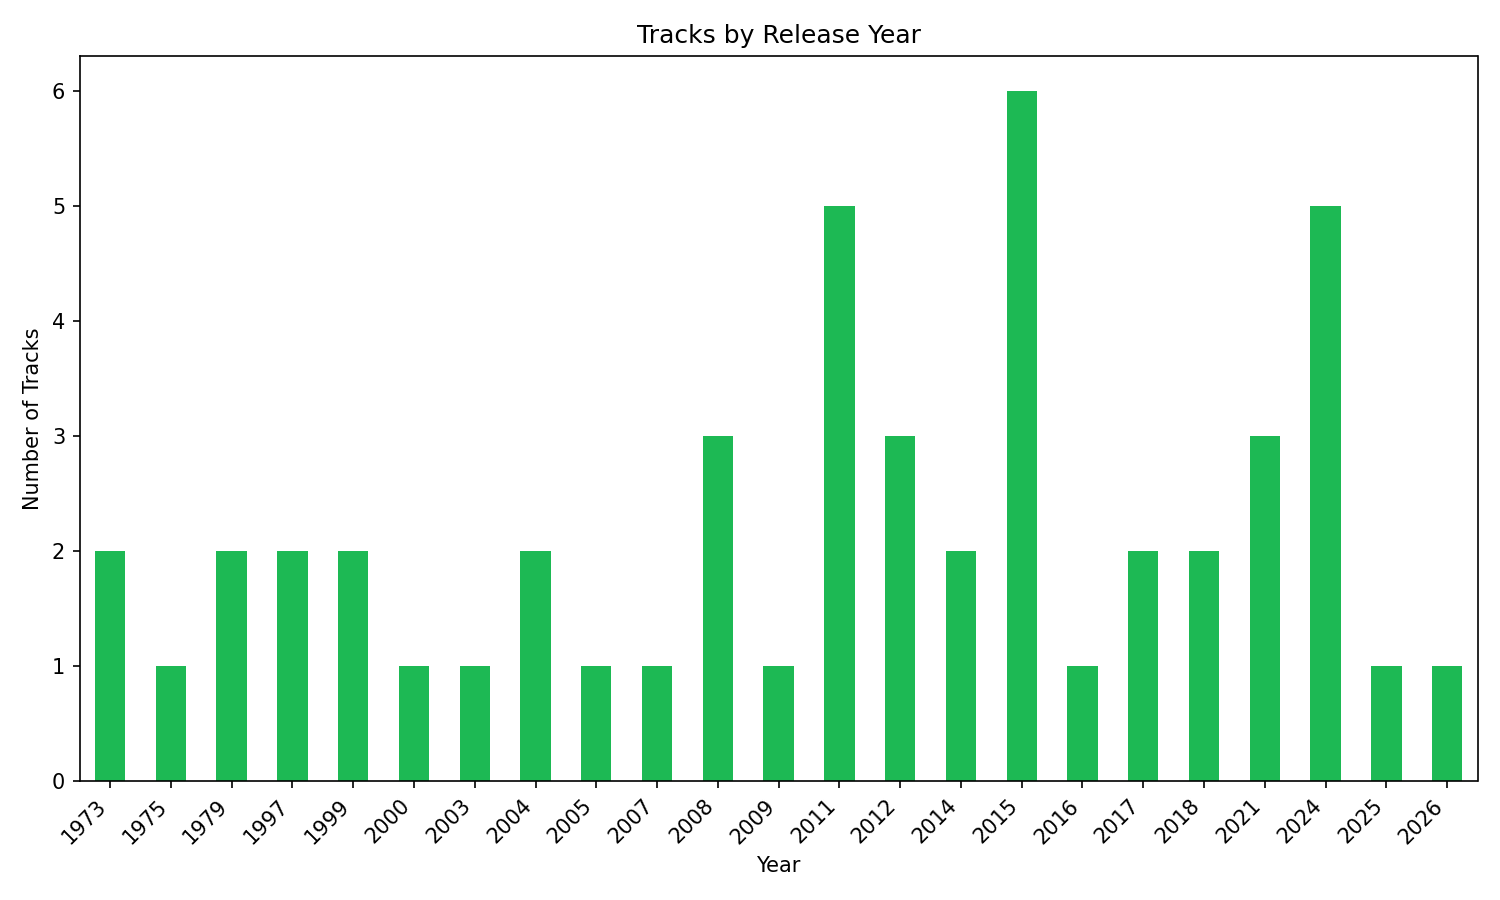
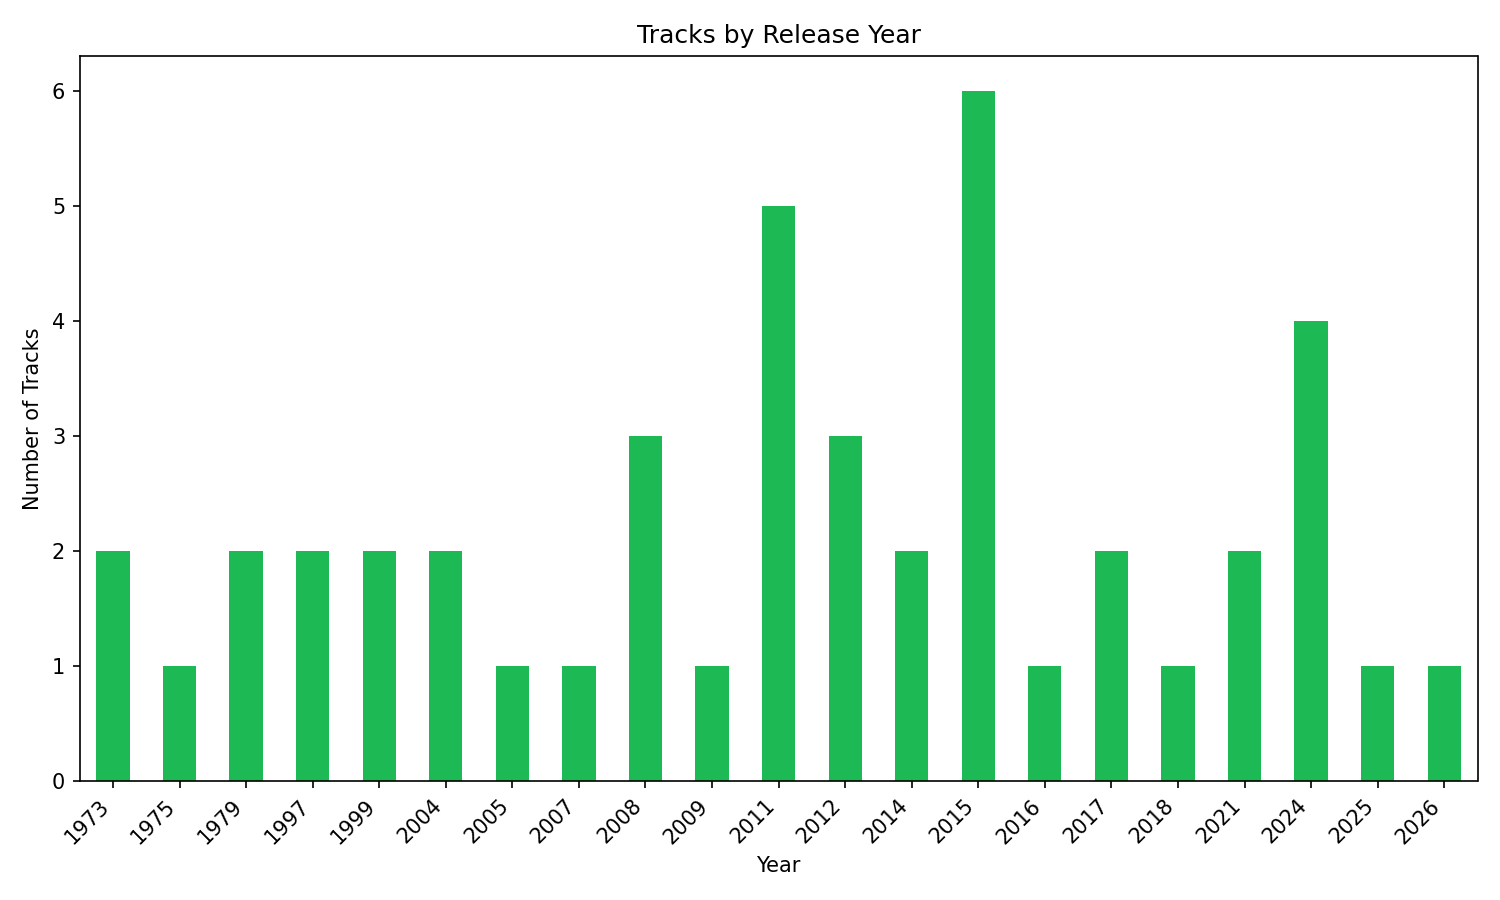
Fix charts, remove unreliable popularity data, add explicit ratio chart

Changed region(s): [[0.0307, 0.0933, 0.9813, 0.9333]]

diff --git a/src/analyze.py b/src/analyze.py
@@ -16,38 +16,36 @@ def analyze():
     """Generate analysis and visualizations from processed data."""
     df = pd.read_csv(CSV_PATH)
 
-    # --- Chart 1: Top 10 most popular tracks ---
-    top_tracks = df.nlargest(10, "popularity")[["track_name", "artist_name", "popularity"]]
-    top_tracks["label"] = top_tracks["track_name"] + " — " + top_tracks["artist_name"]
+    # --- Chart 1: Number of tracks per artist ---
+    tracks_per_artist = df["artist_name"].value_counts().sort_values()
 
     fig, ax = plt.subplots(figsize=(10, 6))
-    ax.barh(top_tracks["label"], top_tracks["popularity"], color="#1DB954")
-    ax.set_xlabel("Popularity")
-    ax.set_title("Top 10 Most Popular Tracks")
-    ax.invert_yaxis()
+    ax.barh(tracks_per_artist.index, tracks_per_artist.values, color="#1DB954")
+    ax.set_xlabel("Number of Tracks")
+    ax.set_title("Tracks Collected per Artist")
     plt.tight_layout()
-    fig.savefig(os.path.join(PROCESSED_DIR, "top_tracks.png"), dpi=150)
+    fig.savefig(os.path.join(PROCESSED_DIR, "tracks_per_artist.png"), dpi=150)
     plt.close()
-    print("Saved: top_tracks.png")
+    print("Saved: tracks_per_artist.png")
 
-    # --- Chart 2: Average popularity by artist ---
-    pop_by_artist = (
-        df.groupby("artist_name")["popularity"]
+    # --- Chart 2: Average track duration by artist ---
+    avg_duration = (
+        df.groupby("artist_name")["duration_sec"]
         .mean()
         .sort_values(ascending=False)
     )
 
     fig, ax = plt.subplots(figsize=(10, 6))
-    pop_by_artist.plot(kind="bar", ax=ax, color="#1DB954")
-    ax.set_ylabel("Average Popularity")
-    ax.set_title("Average Track Popularity by Artist")
+    ax.bar(avg_duration.index, avg_duration.values / 60, color="#1DB954")
+    ax.set_ylabel("Average Duration (minutes)")
+    ax.set_title("Average Track Duration by Artist")
     ax.set_xticklabels(ax.get_xticklabels(), rotation=45, ha="right")
     plt.tight_layout()
-    fig.savefig(os.path.join(PROCESSED_DIR, "popularity_by_artist.png"), dpi=150)
+    fig.savefig(os.path.join(PROCESSED_DIR, "duration_by_artist.png"), dpi=150)
     plt.close()
-    print("Saved: popularity_by_artist.png")
+    print("Saved: duration_by_artist.png")
 
-    # --- Chart 3: Tracks per year ---
+    # --- Chart 3: Tracks by release year ---
     tracks_per_year = df["release_year"].dropna().astype(int).value_counts().sort_index()
 
     fig, ax = plt.subplots(figsize=(10, 6))
@@ -61,11 +59,25 @@ def analyze():
     plt.close()
     print("Saved: tracks_per_year.png")
 
+    # --- Chart 4: Explicit vs Clean tracks ---
+    explicit_counts = df["explicit"].value_counts()
+    labels = ["Clean", "Explicit"]
+    values = [explicit_counts.get(False, 0), explicit_counts.get(True, 0)]
+
+    fig, ax = plt.subplots(figsize=(6, 6))
+    ax.pie(values, labels=labels, autopct="%1.0f%%", colors=["#1DB954", "#b91d47"])
+    ax.set_title("Explicit vs Clean Tracks")
+    plt.tight_layout()
+    fig.savefig(os.path.join(PROCESSED_DIR, "explicit_ratio.png"), dpi=150)
+    plt.close()
+    print("Saved: explicit_ratio.png")
+
     # --- Summary ---
     print("\n--- Summary ---")
     print(f"Total tracks: {len(df)}")
-    print(f"Most popular track: {df.loc[df['popularity'].idxmax(), 'track_name']}")
-    print(f"Most popular artist (avg): {pop_by_artist.index[0]}")
+    print(f"Artists: {df['artist_name'].nunique()}")
+    print(f"Longest avg duration: {avg_duration.index[0]} ({avg_duration.values[0]/60:.1f} min)")
+    print(f"Explicit tracks: {values[1]} ({values[1]/len(df)*100:.0f}%)")
 
 
 if __name__ == "__main__":

diff --git a/src/extract.py b/src/extract.py
@@ -15,7 +15,6 @@ ARTISTS = [
     "Foo Fighters",
     "Adele",
     "Billie Eilish",
-    "Ren",
     "Lady Gaga",
     "The Black Keys",
     "Slipknot",
@@ -31,6 +30,7 @@ def extract():
 
     token = get_access_token()
     all_tracks = []
+    seen_ids = set()
 
     for artist_name in ARTISTS:
         print(f"Fetching data for: {artist_name}")
@@ -43,6 +43,10 @@ def extract():
         tracks = search_tracks(token, artist_name, limit=10)
 
         for track in tracks:
+            if track["id"] in seen_ids:
+                continue
+            seen_ids.add(track["id"])
+
             all_tracks.append(
                 {
                     "artist_name": artist["name"],
@@ -51,7 +55,6 @@ def extract():
                     "track_id": track["id"],
                     "album_name": track["album"]["name"],
                     "release_date": track["album"].get("release_date", ""),
-                    "popularity": track.get("popularity", 0),
                     "duration_ms": track.get("duration_ms", 0),
                     "explicit": track.get("explicit", False),
                 }

diff --git a/src/transform.py b/src/transform.py
@@ -38,8 +38,8 @@ def transform():
     # Remove duplicate tracks (same track_id)
     df = df.drop_duplicates(subset=["track_id"])
 
-    # Sort by artist and then by popularity descending
-    df = df.sort_values(["artist_name", "popularity"], ascending=[True, False])
+    # Sort by artist name, then track name
+    df = df.sort_values(["artist_name", "track_name"])
     df = df.reset_index(drop=True)
 
     # Save as CSV

diff --git a/README.md b/README.md
@@ -5,19 +5,22 @@ A Python data pipeline that extracts music data from the Spotify Web API, transf
 ## What it does
 
 1. **Extract** — Fetches tracks for a configurable list of artists via the Spotify Search API.
-2. **Transform** — Cleans the raw data: parses dates, removes duplicates, handles missing values, converts units, and saves as CSV and Parquet.
-3. **Analyze** — Generates summary statistics and charts: top tracks by popularity, average popularity by artist, and tracks per release year.
+2. **Transform** — Cleans the raw data: parses dates, removes duplicates, converts units, and saves as CSV and Parquet.
+3. **Analyze** — Generates summary statistics and charts from the collected data.
 
 ## Sample results
 
-### Top 10 Most Popular Tracks
-![Top Tracks](data/processed/top_tracks.png)
+### Tracks Collected per Artist
+![Tracks per Artist](data/processed/tracks_per_artist.png)
 
-### Average Popularity by Artist
-![Popularity by Artist](data/processed/popularity_by_artist.png)
+### Average Track Duration by Artist
+![Duration by Artist](data/processed/duration_by_artist.png)
 
 ### Tracks by Release Year
 ![Tracks per Year](data/processed/tracks_per_year.png)
+
+### Explicit vs Clean Tracks
+![Explicit Ratio](data/processed/explicit_ratio.png)
 
 ## Project structure
 spotify-music-pipeline/
@@ -27,10 +30,10 @@ spotify-music-pipeline/
 │   ├── extract.py           # Step 1: data extraction
 │   ├── transform.py         # Step 2: data cleaning and transformation
 │   └── analyze.py           # Step 3: analysis and visualizations
+├── tests/                   # Unit tests
 ├── data/
 │   ├── raw/                 # Raw JSON from API (git-ignored)
 │   └── processed/           # Clean CSV/Parquet + charts
-├── tests/                   # Unit tests
 ├── requirements.txt
 ├── .env.example             # Template for API credentials
 └── .gitignore
@@ -79,16 +82,7 @@ python -m pytest tests/ -v
 
 ## Customization
 
-Edit the `ARTISTS` list in `src/extract.py` to collect data for any artists you want:
-
-```python
-ARTISTS = [
-    "Nothing But Thieves",
-    "Pink Floyd",
-    "Foo Fighters",
-    # Add your favorites here
-]
-```
+Edit the `ARTISTS` list in `src/extract.py` to collect data for any artists you want.
 
 ## Tech stack
 
